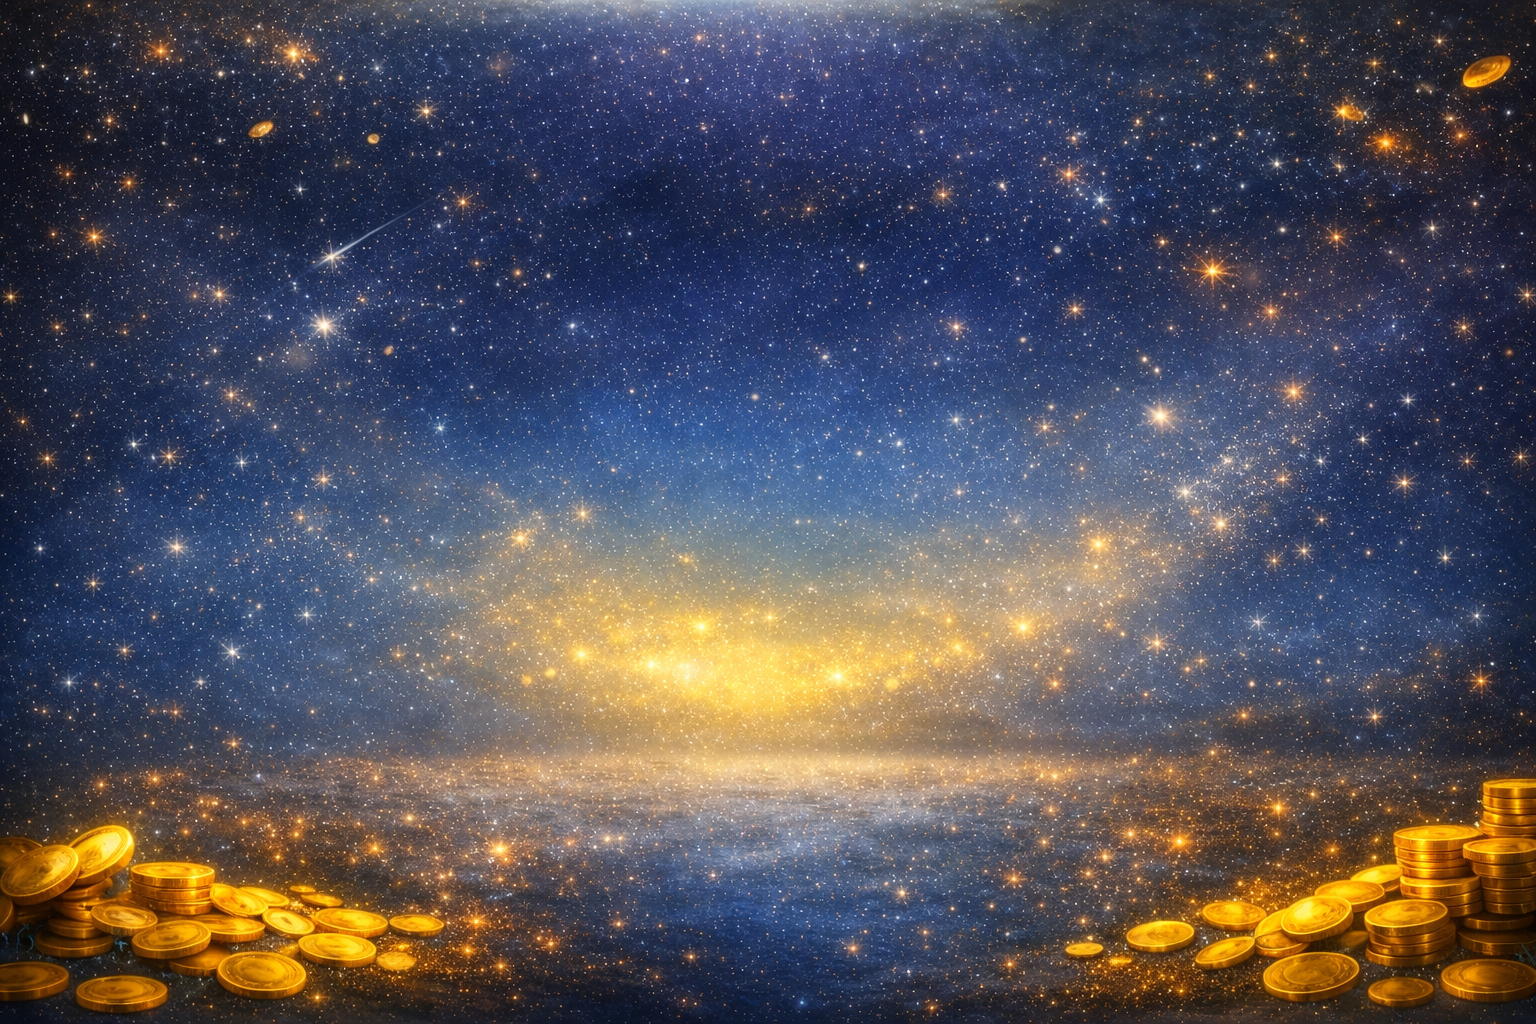
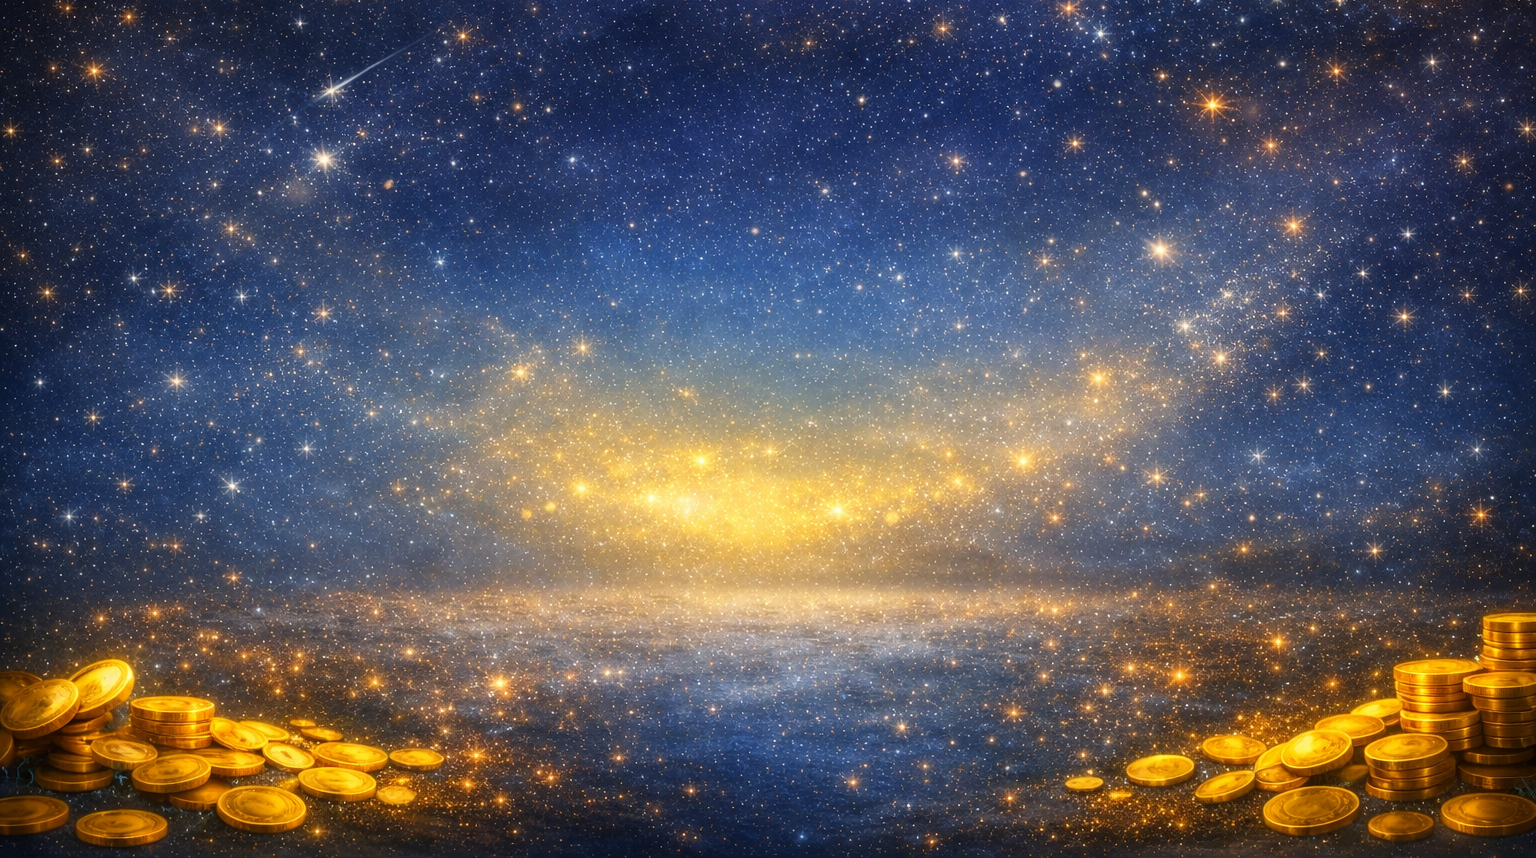
ui fixed

diff --git a/src/components/Home/Section2.jsx b/src/components/Home/Section2.jsx
@@ -14,20 +14,24 @@ import yellowbuttonbg from '../../assets/yellow_buttonbg.jpeg';
 export default function Section2() {
     return (
         <div className="relative min-h-[700px] h-auto w-full overflow-hidden border-b-2 border-[#0d0a4ba1] shadow-[0_25px_20px_rgba(255,255,255,0.8)] pb-8">
-            {/* Background Image Container - ADD YOUR BACKGROUND IMAGE HERE */}
+            {/* Background Image Container - FIXED TO SHOW FULL BACKGROUND */}
             <div
-                className="absolute inset-0 bg-cover bg-center bg-no-repeat"
+                className="absolute inset-0 w-full h-full bg-cover bg-center bg-no-repeat"
                 style={{
                     backgroundImage: `url(${section2bg})`,
+                    backgroundSize: 'cover', // Ensures the image covers the entire container
+                    backgroundPosition: 'center', // Centers the image
+                    backgroundRepeat: 'no-repeat', // Prevents tiling
                 }}
             >
-                {/* Dark overlay for better text visibility */}
-                <div className="absolute inset-0 bg-black/30"></div>
+                {/* Optional overlay - commented out as in original */}
+                {/* <div className="absolute inset-0 bg-black/30"></div> */}
             </div>
+            
 
             {/* Content Container */}
             <div className="relative z-10 px-4 py-4">
-                {/* Title - ADD YOUR TITLE IMAGE HERE */}
+                {/* Title */}
                 <div className="flex justify-center mb-8">
                     <h1 className="text-yellow-400 text-3xl sm:text-4xl md:text-5xl lg:text-6xl font-bold text-center py-3 [text-shadow:2px_2px_4px_rgb(0_0_0_/80%)]">
                         Discover Our Games
@@ -39,9 +43,9 @@ export default function Section2() {
                     
                     {/* Keno Blast Card */}
                     <div className="relative w-full max-w-[350px] mx-auto md:max-w-none">
-                        {/* Card Background - ADD YOUR CARD BACKGROUND IMAGE HERE */}
+                        {/* Card Background */}
                         <div
-                            className="rounded-xl h-auto min-h-[440px] overflow-hidden shadow-2xl bg-cover bg-center bg-no-repeat flex flex-col"
+                            className="rounded-xl h-auto overflow-hidden shadow-2xl bg-contain bg-center bg-no-repeat flex flex-col"
                             style={{
                                 backgroundImage: `url('${bluebuttonbg}')`,
                             }}
@@ -57,7 +61,7 @@ export default function Section2() {
                                     </div>
                                 </div>
 
-                                {/* Game Title - ADD YOUR TITLE IMAGE HERE */}
+                                {/* Game Title */}
                                 <div
                                     className="h-14 sm:h-16 bg-contain bg-no-repeat bg-center mb-2 mt-4 z-20"
                                     style={{
@@ -99,7 +103,7 @@ export default function Section2() {
                                     <span>Bet Amount: $2.00</span>
                                 </div>
 
-                                {/* Buttons - Pushed to bottom with margin-top auto */}
+                                {/* Buttons */}
                                 <div className="flex gap-2 justify-between mt-auto">
                                     <div className="flex-1">
                                         <div className="p-[2px] rounded-lg bg-gradient-to-br from-yellow-400 to-green-500">
@@ -143,7 +147,7 @@ export default function Section2() {
 
                     {/* Turbo Keno Card */}
                     <div className="relative w-full max-w-[350px] mx-auto md:max-w-none">
-                        {/* Card Background - ADD YOUR CARD BACKGROUND IMAGE HERE */}
+                        {/* Card Background */}
                         <div
                             className="rounded-xl h-auto min-h-[440px] overflow-hidden shadow-2xl bg-cover bg-center bg-no-repeat flex flex-col"
                             style={{
@@ -154,7 +158,7 @@ export default function Section2() {
                                 background: 'radial-gradient(ellipse at center, transparent 0%, rgba(0,0,0,0.8) 100%)'
                             }}></div>
                             <div className="p-3 sm:p-4 flex flex-col flex-1 relative z-10">
-                                {/* Game Title - ADD YOUR TITLE IMAGE HERE */}
+                                {/* Game Title */}
                                 <div
                                     className="h-14 sm:h-16 bg-contain bg-no-repeat bg-center mb-2 mt-4 z-20"
                                     style={{
@@ -196,7 +200,7 @@ export default function Section2() {
                                     <span>Bet Amount: $2.00</span>
                                 </div>
 
-                                {/* Buttons - Pushed to bottom with margin-top auto */}
+                                {/* Buttons */}
                                 <div className="flex gap-2 justify-between mt-auto">
                                     <div className="flex-1">
                                         <div className="p-[2px] rounded-lg bg-gradient-to-br from-yellow-400 to-green-500">
@@ -240,7 +244,7 @@ export default function Section2() {
 
                     {/* Lucky Lotto Card */}
                     <div className="relative w-full max-w-[350px] mx-auto md:max-w-none">
-                        {/* Card Background - ADD YOUR CARD BACKGROUND IMAGE HERE */}
+                        {/* Card Background */}
                         <div
                             className="rounded-xl h-auto min-h-[440px] overflow-hidden shadow-2xl bg-cover bg-center bg-no-repeat flex flex-col"
                             style={{
@@ -250,7 +254,7 @@ export default function Section2() {
                             {/* Dark overlay for better text visibility */}
                             <div className="absolute inset-0 bg-black/30"></div>
                             <div className="p-3 sm:p-4 flex flex-col flex-1 relative z-10">
-                                {/* Game Title - ADD YOUR TITLE IMAGE HERE */}
+                                {/* Game Title */}
                                 <div
                                     className="h-16 sm:h-18 bg-contain bg-no-repeat bg-center mt-4 z-20"
                                     style={{
@@ -265,10 +269,10 @@ export default function Section2() {
                                     </div>
                                 </div>
 
-                                {/* Spacer that grows to push button to bottom */}
+                                {/* Spacer */}
                                 <div className="flex-1"></div>
 
-                                {/* Buttons - Now at bottom */}
+                                {/* Buttons */}
                                 <div className="w-full mt-4">
                                     <div className="p-[2px] rounded-lg bg-gradient-to-br from-yellow-400 to-green-500">
                                         <div
@@ -292,7 +296,7 @@ export default function Section2() {
 
                     {/* Horse Racing Card */}
                     <div className="relative w-full max-w-[350px] mx-auto md:max-w-none">
-                        {/* Card Background - ADD YOUR CARD BACKGROUND IMAGE HERE */}
+                        {/* Card Background */}
                         <div
                             className="rounded-xl h-auto min-h-[440px] overflow-hidden shadow-2xl bg-cover bg-center bg-no-repeat flex flex-col"
                             style={{
@@ -302,7 +306,7 @@ export default function Section2() {
                             {/* Dark overlay for better text visibility */}
                             <div className="absolute inset-0 bg-black/30"></div>
                             <div className="p-3 sm:p-4 flex flex-col flex-1 relative z-10">
-                                {/* Game Title - ADD YOUR TITLE IMAGE HERE */}
+                                {/* Game Title */}
                                 <div
                                     className="h-14 sm:h-16 bg-contain bg-no-repeat bg-center mt-4 z-20"
                                     style={{
@@ -310,10 +314,10 @@ export default function Section2() {
                                     }}
                                 ></div>
 
-                                {/* Spacer that grows to push content down */}
+                                {/* Spacer */}
                                 <div className="flex-1"></div>
 
-                                {/* Jackpot Amount - Now positioned above button */}
+                                {/* Jackpot Amount */}
                                 <div className="text-center mb-4 bg-gradient-to-r from-transparent via-[#00000077] from-transparent">
                                     <div className="px-2 py-1 inline-block">
                                         <span className="text-yellow-300 text-sm sm:text-md font-bold">JACKPOT $25,000.00</span>
@@ -324,7 +328,7 @@ export default function Section2() {
                                     </div>
                                 </div>
 
-                                {/* Buttons - At bottom */}
+                                {/* Buttons */}
                                 <div className="w-full">
                                     <div className="p-[2px] rounded-lg bg-gradient-to-br from-white/70 to-yellow-500">
                                         <div
@@ -347,7 +351,7 @@ export default function Section2() {
                     </div>
                 </div>
 
-                {/* Bottom Play Now Button - ADD YOUR BUTTON IMAGE HERE */}
+                {/* Bottom Play Now Button */}
                 <div className="flex justify-center px-4">
                     <div className="inline-block p-[2px] rounded-lg bg-gradient-to-br from-white/70 to-yellow-500 w-full sm:w-auto max-w-[300px] sm:max-w-none">
                         <div
@@ -368,7 +372,7 @@ export default function Section2() {
             </div>
             {/* Bottom Center Glow Effect */}
             <div className="absolute bottom-0 left-1/2 -translate-x-1/2 w-[60%] h-6 pointer-events-none">
-                <div className="w-full h-full bg-gradient-to-r from-transparent via-white to-transparent blur-md opacity-80"></div>
+                <div className="w-full h-full bg-gradient-to-r from-transparent via-white to-transparent blur-md"></div>
             </div>
         </div>
     );

diff --git a/src/components/Home/Section3.jsx b/src/components/Home/Section3.jsx
@@ -41,7 +41,7 @@ export default function Section3() {
     ];
 
     return (
-        <div className="relative w-full min-h-[500px] md:min-h-[400px] overflow-hidden">
+        <div className="relative w-full min-h-[700px] md:min-h-[600px] overflow-hidden p-[50px] lg:p-[100px">
             {/* Background Image Container - ADD YOUR BACKGROUND IMAGE HERE */}
             <div
                 className="absolute inset-0 bg-cover bg-center bg-no-repeat"
@@ -50,7 +50,7 @@ export default function Section3() {
                 }}
             >
                 {/* Dark overlay for better text visibility */}
-                <div className="absolute inset-0 bg-black/30"></div>
+                {/* <div className="absolute inset-0 bg-black/30"></div> */}
             </div>
 
             {/* Content Container */}
@@ -206,7 +206,7 @@ export default function Section3() {
             </div>
             {/* Bottom Center Glow Effect */}
             <div className="absolute bottom-0 left-1/2 -translate-x-1/2 w-[60%] h-4 sm:h-6 pointer-events-none">
-                <div className="w-full h-full bg-gradient-to-r from-transparent via-white to-transparent blur-md opacity-80"></div>
+                <div className="w-full h-full bg-gradient-to-r from-transparent via-white to-transparent blur-md "></div>
             </div>
         </div>
     );

diff --git a/src/components/Home/Section1.jsx b/src/components/Home/Section1.jsx
@@ -18,10 +18,10 @@ const Section1 = () => {
         }}
       >
         {/* Dark overlay on sides, lighter in middle */}
-        <div className="absolute inset-0" style={{
+        {/* <div className="absolute inset-0" style={{
           background: 'radial-gradient(ellipse at center, transparent 0%, rgba(0,0,0,0.8) 100%)'
 
-        }}></div>
+        }}></div> */}
       </div>
 
       {/* Content Container */}
@@ -96,8 +96,9 @@ const Section1 = () => {
 
       {/* Bottom Center Glow Effect */}
       <div className="absolute bottom-0 left-1/2 -translate-x-1/2 w-[60%] h-6 pointer-events-none">
-        <div className="w-full h-full bg-linear-to-r from-transparent via-white to-transparent blur-md opacity-80"></div>
+        <div className="w-full h-full bg-linear-to-r from-transparent via-white to-transparent blur-md "></div>
       </div>
+      
     </section>
   );
 };
